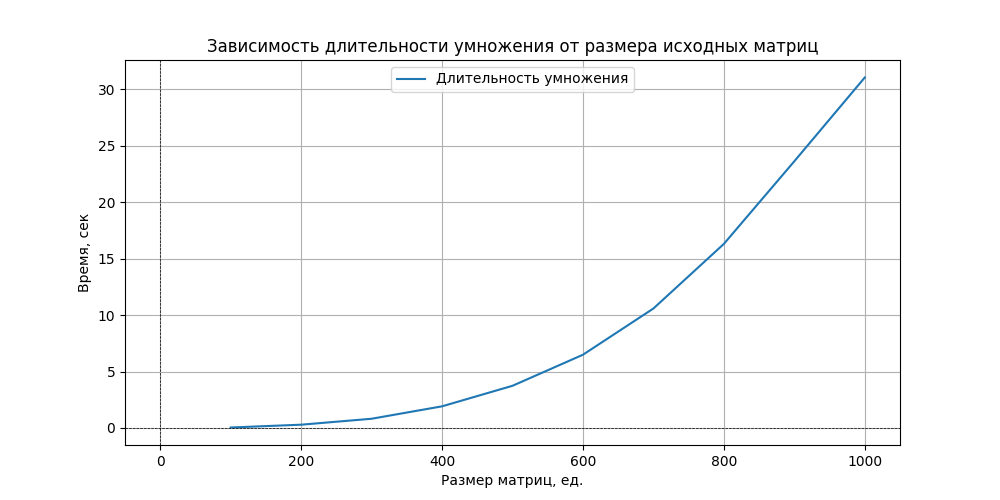
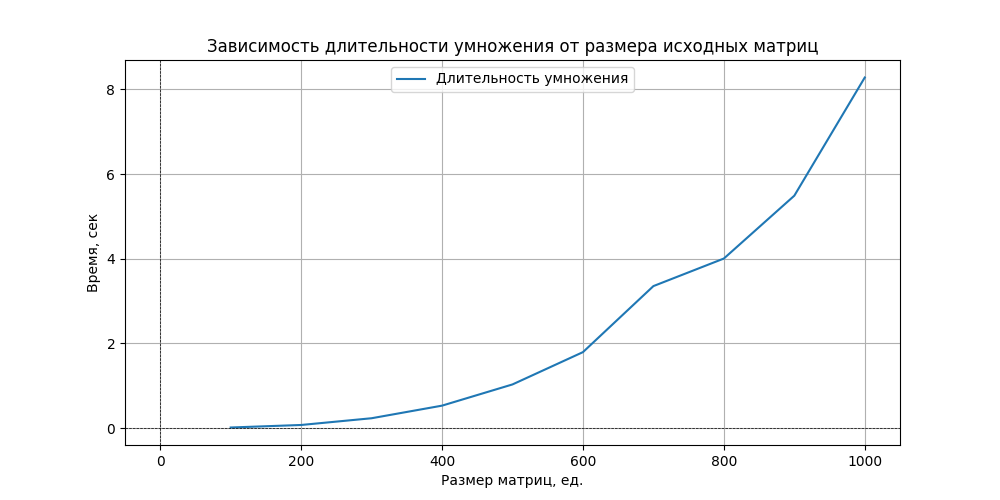
omp

diff --git a/ParallelProgramming/Source.cpp b/ParallelProgramming/Source.cpp
@@ -4,6 +4,7 @@
 #include <fstream>
 #include <filesystem>
 #include <chrono>
+#include <omp.h>
 
 using namespace std;
 
@@ -13,6 +14,7 @@ vector<vector<T>> multiplyMatrices(const vector<vector<T>>& left, const vector<v
 	vector<vector<T>> result;
 	if (left[0].size() == right.size() && !left.empty() && !right.empty()) {
 		result.resize(left.size(), vector<T>(right[0].size(), 0));
+        #pragma omp parallel for
 		for (auto i = 0; i < left.size(); ++i) {
 			for (auto j = 0; j < right[0].size(); ++j) {
 				for (auto k = 0; k < left[0].size(); ++k) {
@@ -106,7 +108,9 @@ void writeStats(vector<pair<int, double>>& stats, const string& filepath) {
 
 
 int main(int argc, char* argv[]) {
+    omp_set_num_threads(omp_get_max_threads());
     auto stats = testMultiplication<int>("samples\\samples");
     writeStats(stats, "stats.txt");
+    std::cout << "Processors: " << omp_get_num_procs() << ", Max threads: " << omp_get_max_threads() << std::endl;
     return 0;
 }

diff --git a/ParallelProgramming/validator.py b/ParallelProgramming/validator.py
@@ -1,4 +1,5 @@
 import numpy as np
+import os
 
 
 def read_matrix_from_file(filename):
@@ -13,6 +14,15 @@ def multiply_matrices(size, index):
     matrix_b = read_matrix_from_file(file_b)
     result_matrix = np.dot(matrix_a, matrix_b)
     return result_matrix
+
+def delete_matrices():
+    for size in range(100, 1001, 100):
+        print('Deleting matrices with size: ', size)
+        for index in range(10):
+            file_c = f'ParallelProgramming\\samples\\samples_{size}_{index}_c'
+            if os.path.exists(file_c):
+                os.remove(file_c)
+    print("Deletion complited")
 
 def is_correct():
     flag = True

diff --git a/ParallelProgramming/main.py b/ParallelProgramming/main.py
@@ -1,11 +1,12 @@
 from generator import generate_samples
-from validator import is_correct
+from validator import is_correct, delete_matrices
 from stats import read_stats, plot_function
 
 
 if __name__ == '__main__':
     #generate_samples()
-    #print(is_correct())
-    size_data, time_data = read_stats("ParallelProgramming\\stats.txt")
-    plot_function(size_data, time_data)
+    #delete_matrices()
+    if is_correct():
+        size_data, time_data = read_stats("ParallelProgramming\\stats.txt")
+        plot_function(size_data, time_data) 
  
